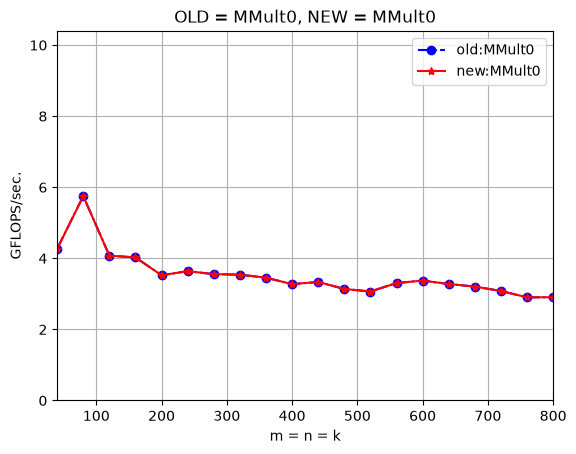
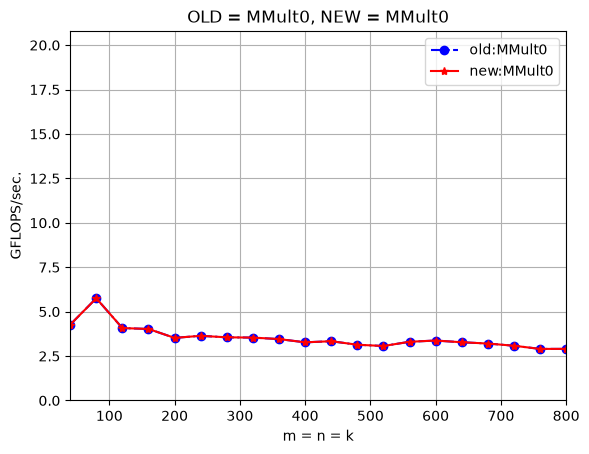
添加doc目录，统一存放文档（FLOPS = Floating-Point Operations Per Second）

diff --git a/PlotAll.py b/PlotAll.py
@@ -85,7 +85,7 @@ fig, ax = plt.subplots()
 ax.plot(old_data[:,0], old_data[:,1], 'bo-.', label='old:' + old.version)
 ax.plot(new_data[:,0], new_data[:,1], 'r-*', label='new:' + new.version)
 
-ax.set(xlabel='m = n = k', ylabel='GFLOPS/sec.',
+ax.set(xlabel='m = n = k', ylabel='GFLOPS',
        title="OLD = {}, NEW = {}".format(old.version, new.version))
 ax.grid()
 ax.legend()

diff --git a/doc/环境和参数.md b/doc/环境和参数.md
@@ -178,8 +178,8 @@ nflops_per_cycle = 8;  % AVX2 理论峰值
 ### 理论峰值计算
 
 ```
-基础频率 (2.6 GHz):  max_gflops = 8 * 1 * 2.6 = 20.8 GFLOPS/s
-睿频 (4.6 GHz):      max_gflops = 8 * 1 * 4.6 = 36.8 GFLOPS/s
+基础频率 (2.6 GHz):  max_gflops = 8 * 1 * 2.6 = 20.8 GFLOPS
+睿频 (4.6 GHz):      max_gflops = 8 * 1 * 4.6 = 36.8 GFLOPS
 ```
 
 ### 多线程配置（可选）
@@ -199,7 +199,7 @@ nflops_per_cycle = 8;  % AVX2 理论峰值
 
 3. **理论峰值**：
    ```
-   max_gflops = 8 * 6 * 2.6 = 124.8 GFLOPS/s
+   max_gflops = 8 * 6 * 2.6 = 124.8 GFLOPS
    ```
 
 ---
@@ -271,7 +271,7 @@ python PlotAll.py
 
 图像说明：
 - **X轴**：矩阵大小 `m = n = k`（从 40 到 800）
-- **Y轴**：性能（GFLOPS/s），上限为 `max_gflops`
+- **Y轴**：性能（GFLOPS），上限为 `max_gflops`
 - **蓝色曲线**：OLD 版本（旧实现）
 - **红色曲线**：NEW 版本（新实现）
 

diff --git a/doc/项目简介.md b/doc/项目简介.md
@@ -75,7 +75,7 @@ MATLAB 绘图参数配置：
 - 调用参考实现计算正确结果
 - 计时待测实现（多次重复取最佳时间）
 - 比较结果正确性
-- 输出性能数据（GFLOPS/s）
+- 输出性能数据（GFLOPS）
 
 #### random_matrix.c
 生成指定大小的随机矩阵，元素值范围 [-1, 1]。
@@ -99,7 +99,7 @@ MATLAB 绘图参数配置：
 #### PlotAll.m
 MATLAB 绘图脚本：
 - 读取 `output_old.m` 和 `output_new.m` 数据
-- 绘制性能对比图（GFLOPS/s vs 矩阵大小）
+- 绘制性能对比图（GFLOPS vs 矩阵大小）
 - 标记理论峰值性能
 
 #### PlotAll.py
